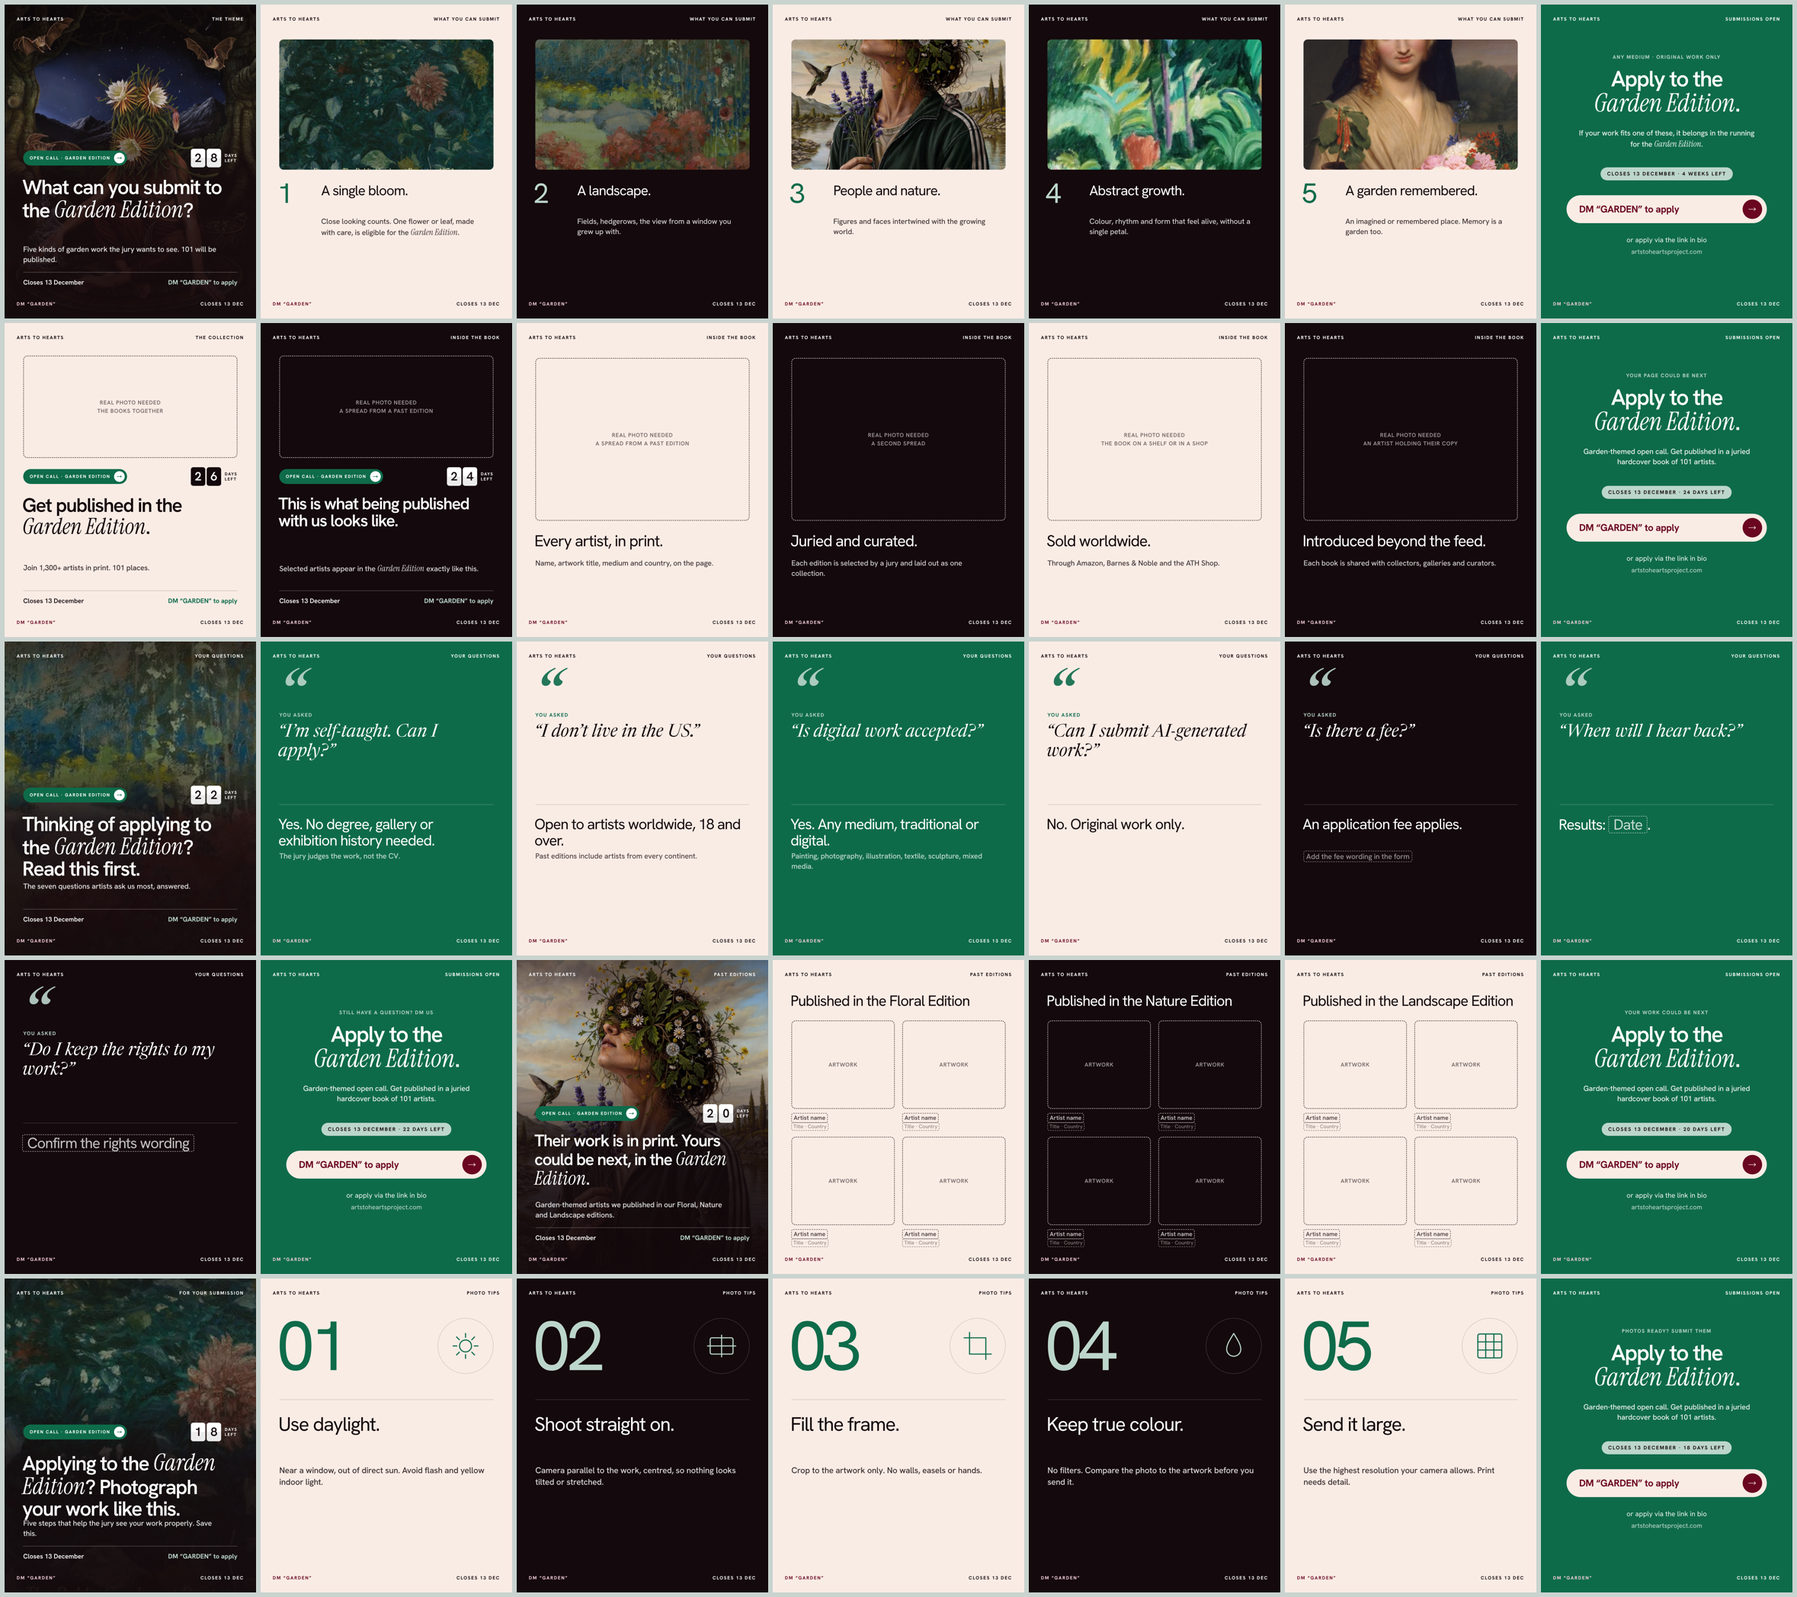
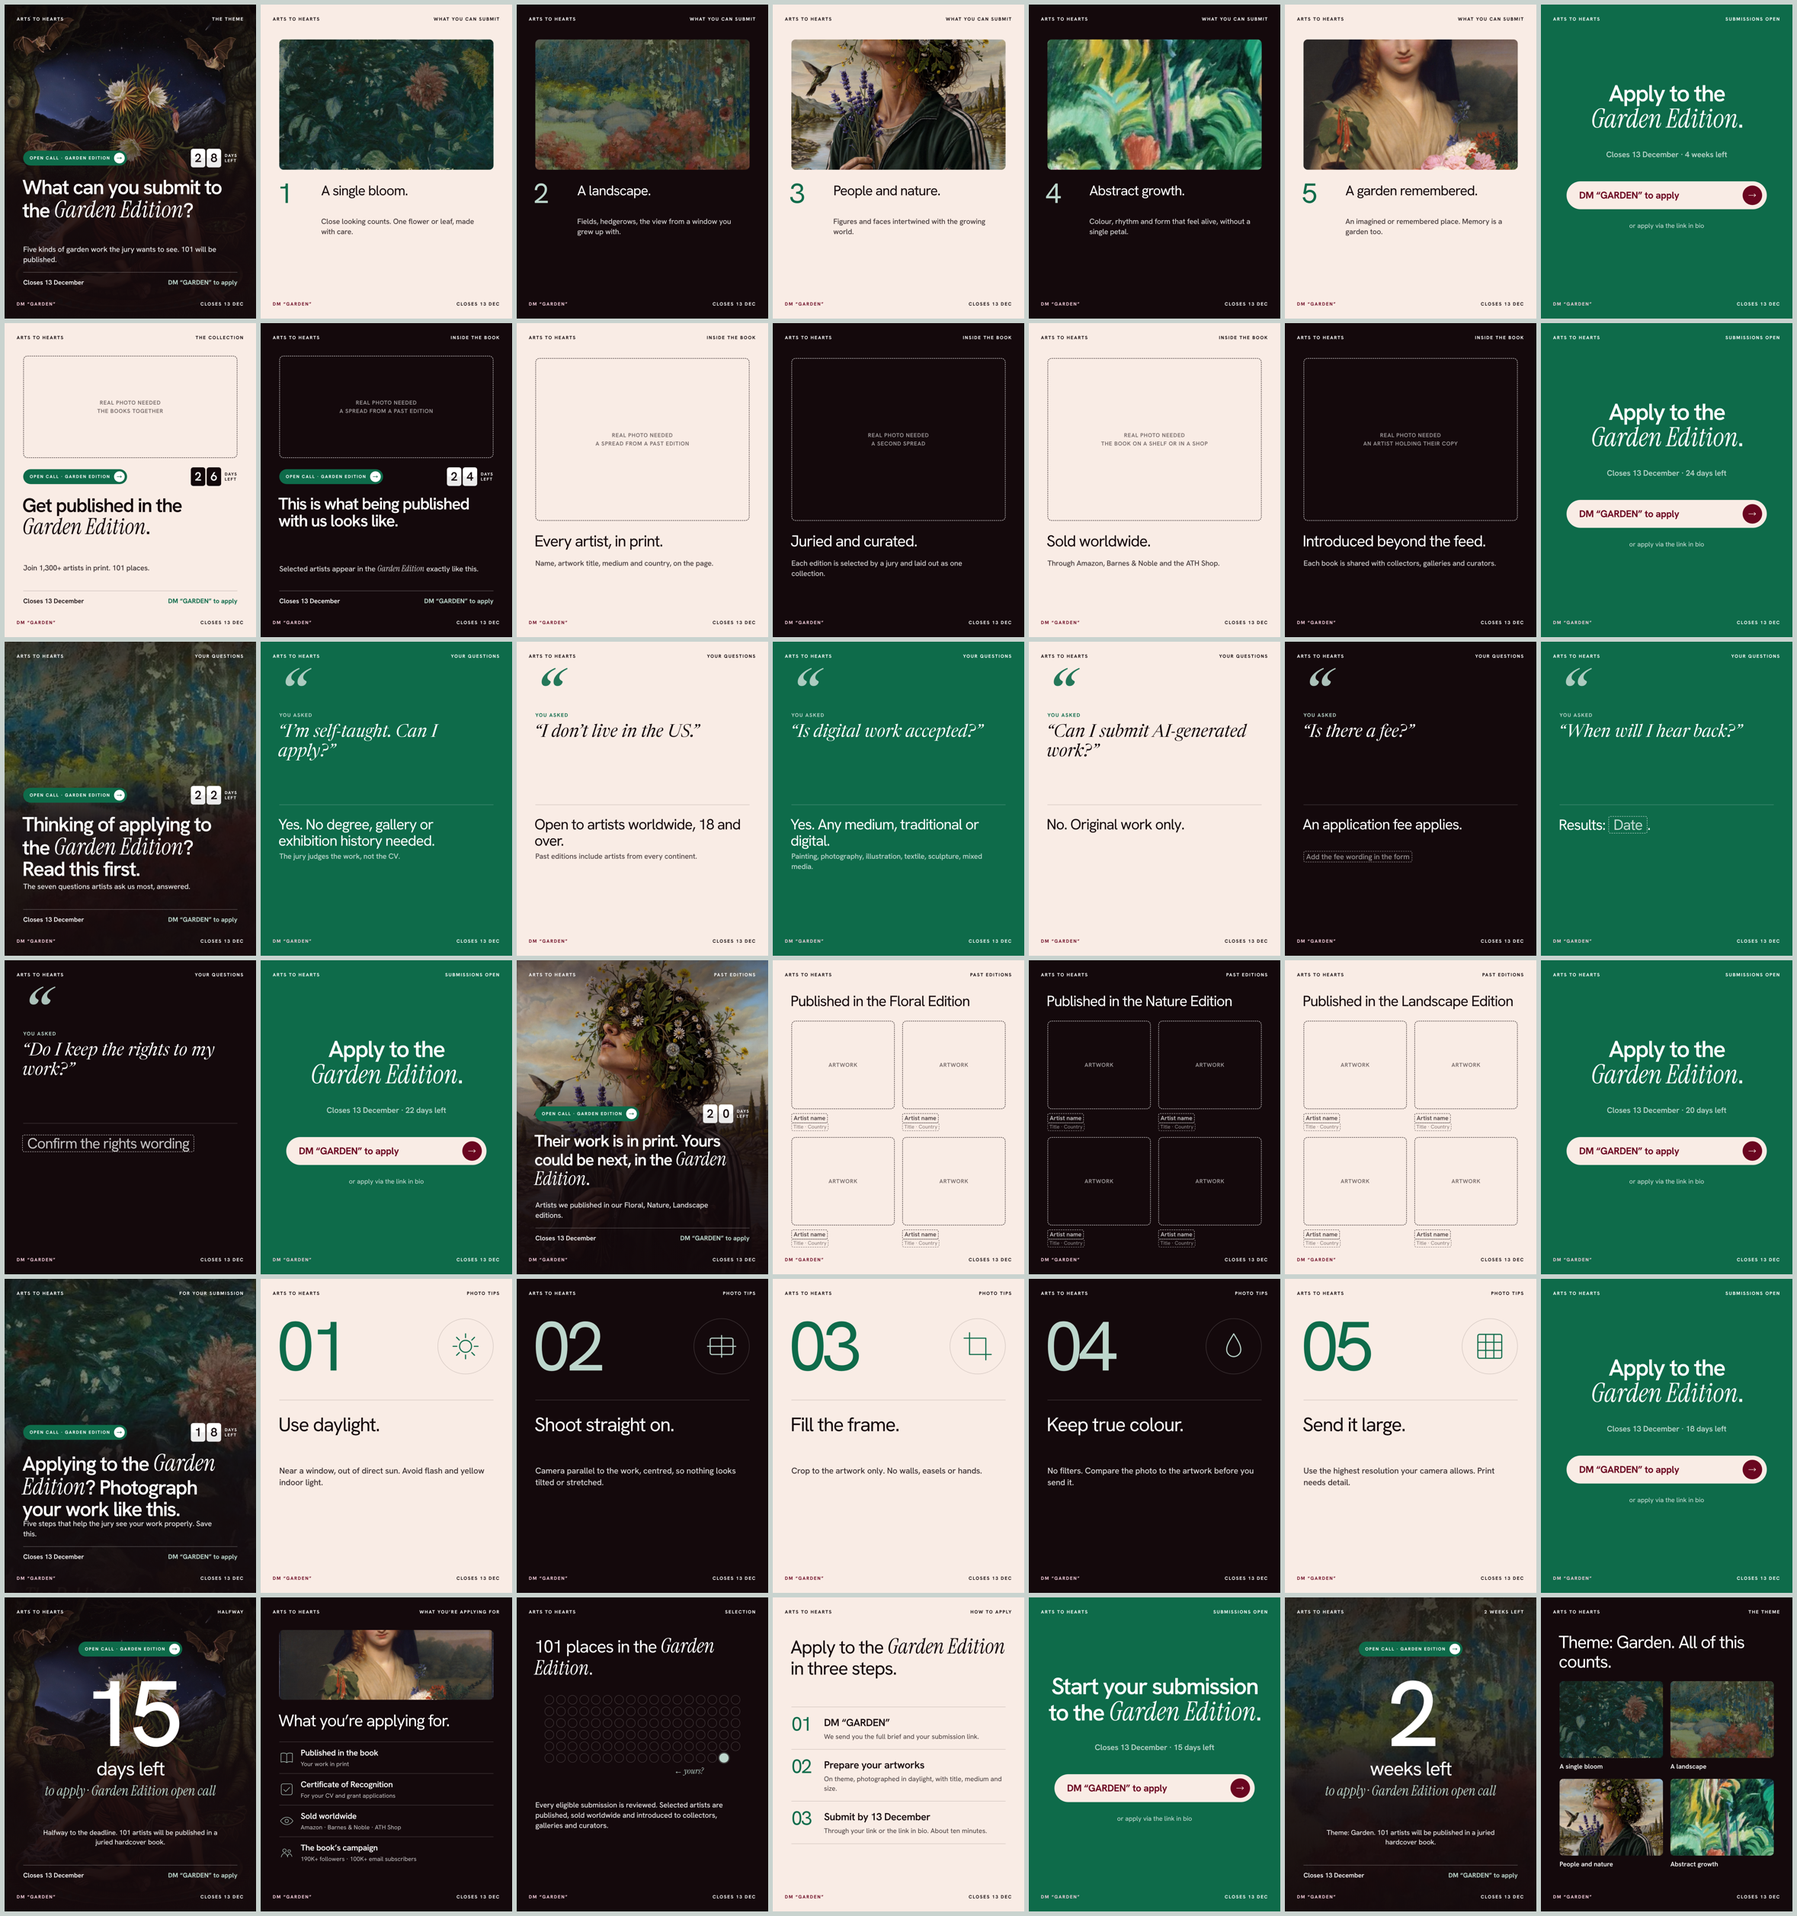
Award covers use full-frame artwork, simpler closing slide, stripped-back final-day urgency posts
Claude-Session: https://claude.ai/code/session_01Bc4gkdxg6i3YRuybqzVB3k

diff --git a/design/campaigns/open-calls/month.js b/design/campaigns/open-calls/month.js
@@ -133,18 +133,16 @@ const T = {
       <p class="a R" style="left:76px;right:80px;top:150px;font-size:76px;color:${g.fg}">${o.head || `${state.theme ? 'Theme: ' + TH() + '. ' : ''}All of this counts.`}</p>
       ${items.map(([src,l],i) => { const x = i%2 ? 556 : 80, y = i<2 ? 360 : 780; return `${imgDiv(src, `left:${x}px;top:${y}px;width:444px;height:330px;border-radius:16px`, 'center 30%')}<p class="a" style="left:${x}px;top:${y+346}px;font-size:28px;font-weight:600;color:${g.fg}">${l}</p>`; }).join('')}`};
   },
-  // every carousel closes on this: the same clear action, with the theme
+  // every carousel closes on this: one headline, the date, one button
   cta(o = {}){
     const g = G[o.ground||'call']();
-    const b = (g.bg === CREAM ? btnCTA(BURG, CREAM, CREAM) : btnCTA(CREAM, BURG, BURG)).replace('{TOP}', 820);
+    const b = (g.bg === CREAM ? btnCTA(BURG, CREAM, CREAM) : btnCTA(CREAM, BURG, BURG)).replace('{TOP}', 760);
+    const long = String(state.name).length > 16;
     return {bg:g.bg, html:`${corners(g.fg, g.dm, o.tr||'Submissions open')}
-      ${o.kicker ? `<p class="a c lab" style="left:0;right:0;top:210px;color:${g.acc}">${o.kicker}</p>` : ''}
-      <p class="a H c" style="left:60px;right:60px;top:${String(state.name).length > 16 ? 240 : 270}px;font-size:${Math.round((o.size||96) * (String(state.name).length > 16 ? .8 : 1))}px;color:${g.fg}">${o.head || `Apply to the<br>${GE()}.`}</p>
-      <p class="a c sub" style="left:140px;right:140px;top:${o.subTop||530}px;color:${g.fg};opacity:.92">${o.sub || `${state.theme ? 'Theme: ' + TH() + '. ' : ''}Get published in a juried hardcover book of ${esc(state.selected)} artists.`}</p>
-      <div class="a" style="left:0;right:0;top:700px;display:flex;justify-content:center"><span class="cn" style="display:inline-flex;align-items:center;height:56px;padding:0 28px;border-radius:999px;background:${g.bg === CREAM ? INK : tint(state.colour)};color:${g.bg === CREAM ? CREAM : INK};font-size:22px">Closes ${dateLong()} · ${leftLabel()}</span></div>
+      <p class="a H c" style="left:70px;right:70px;top:${long ? 300 : 330}px;font-size:${Math.round((o.size||100) * (long ? .8 : 1))}px;color:${g.fg}">${o.head || `Apply to the<br>${GE()}.`}</p>
+      <p class="a c" style="left:0;right:0;top:620px;font-size:34px;font-weight:600;letter-spacing:-.01em;color:${g.acc}">${CURLEFT === 0 ? `Closes tonight, ${dateLong()}` : `Closes ${dateLong()} · ${leftLabel()}`}</p>
       ${b}
-      <p class="a c" style="left:0;right:0;top:990px;font-size:30px;color:${g.fg};opacity:.92">or apply via the link in bio</p>
-      <p class="a c" style="left:0;right:0;top:1042px;font-size:28px;color:${g.fg};opacity:.75">artstoheartsproject.com</p>`};
+      <p class="a c" style="left:0;right:0;top:930px;font-size:28px;color:${g.fg};opacity:.8">or apply via the link in bio</p>`};
   },
   // scarcity: 101 places, one of them could be yours
   stakes(o = {}){
@@ -285,11 +283,12 @@ const awardTag = () => `<span class="cn" style="display:inline-flex;align-items:
 
 const AW = {
   hook(o){ const c = gold();
-    return {bg:AWARD_BG, html:`${frame(c)}${corners(CREAM, PEONY, o.tr)}
-      ${framedArt(o.img || o.art || ART[0], 'left:300px;right:300px;top:140px;height:520px', o.pos || o.artPos)}
-      <div class="a c" style="left:0;right:0;top:720px">${awardTag()}</div>
-      <p class="a c H" style="left:110px;right:110px;top:800px;font-size:${Math.round((o.size||80)*.78)}px;color:${CREAM}">${o.head}</p>
-      ${o.sub ? `<p class="a c sub" style="left:160px;right:160px;top:1035px;font-size:28px;color:${CREAM};opacity:.85">${o.sub}</p>` : ''}
+    return {bg:AWARD_BG, html:`${imgDiv(o.img || o.art || ART[0], 'left:40px;right:40px;top:40px;bottom:40px', o.pos || o.artPos || 'center 30%')}
+      <div class="a" style="left:40px;right:40px;top:40px;bottom:40px;background:linear-gradient(180deg,rgba(28,19,11,.5) 0%,rgba(28,19,11,0) 22%,rgba(28,19,11,0) 40%,rgba(28,19,11,.88) 64%,#1C130B 100%)"></div>
+      ${frame(c)}${corners(CREAM, PEONY, o.tr)}
+      <div class="a" style="left:90px;top:700px">${awardTag()}</div>
+      <p class="a H" style="left:86px;right:90px;top:780px;font-size:${Math.round((o.size||80)*.8)}px;color:${CREAM}">${o.head}</p>
+      ${o.sub ? `<p class="a sub" style="left:90px;right:150px;top:1040px;font-size:28px;color:${CREAM};opacity:.85">${o.sub}</p>` : ''}
       ${strip(CREAM, c)}`};
   },
   count(o){ const c = gold(); const tone = o.tone === 'chilli' ? '#5A0A0A' : AWARD_BG;
@@ -303,6 +302,15 @@ const AW = {
       <p class="a c sub" style="left:160px;right:160px;top:${o.infoTop ? o.infoTop + 40 : 990}px;font-size:28px;color:${CREAM};opacity:.85">${o.info || `${esc(state.selected)} artists will be published in a juried hardcover book.`}</p>
       ${strip(CREAM, c)}`};
   },
+};
+// final day: one message, nothing else
+T.urgent = (o) => { const award = isAward(); const bg = o.chilli ? '#AA0003' : (award ? AWARD_BG : INK); const acc = o.chilli ? CREAM : tint(state.colour);
+  const btn = btnCTA(CREAM, o.chilli ? '#AA0003' : BURG, o.chilli ? '#AA0003' : BURG).replace('{TOP}', 1000);
+  return {bg, html:`${award ? frame(gold()) : ''}${corners(CREAM, PEONY, o.tr || 'Final day')}
+    <p class="a c lab" style="left:0;right:0;top:250px;color:${acc};font-size:26px">${GE()} · open call</p>
+    <p class="a c" style="left:40px;right:40px;top:330px;font-size:${o.size||230}px;font-weight:700;letter-spacing:-.055em;line-height:.88;color:${CREAM}">${o.head}</p>
+    <p class="a c" style="left:120px;right:120px;top:${o.subTop||800}px;font-size:40px;font-weight:500;letter-spacing:-.015em;color:${CREAM}">${o.sub}</p>
+    ${btn}`};
 };
 const T0 = {...T};
 T.hook = o => isAward() ? AW.hook(o) : T0.hook(o);
@@ -709,24 +717,20 @@ Everything you need is in this post. ${kwLine()}
 ${tags}`},
 
  {left:0, title:'Last day', kind:'Carousel · last call', slides:() => [
-   T.count({img:ART[2], pos:'center 40%', big:'Last day', bigSize:190, bigTop:400, unit:'is today', unitTop:620, info:`Submissions close tonight. Tomorrow the jury begins selecting ${sel} artists.`}),
+   T.urgent({head:'Last<br>day.', sub:'Submissions close at midnight tonight.', tr:'Last day'}),
    T.brief(),
-   T.themeRecap({ground:'cream', head:`Your ${TW()} belongs in this book.`}),
-   T.cta({head:'Apply today.', sub:`The ${name} open call closes tonight.`}),
+   T.cta({head:'Apply today.'}),
  ], caption:() => `Last day to apply to the ${N()} open call.
 
-${themeTag()}${SEL()} artists will be selected and published in a juried hardcover book, sold worldwide and shared with collectors, galleries and curators.
-
-Open to individual artists 18+, worldwide, in any medium.
+Submissions close at midnight tonight. ${SEL()} artists will be selected and published in a juried hardcover book.
 ${kwLine()}
 
 ${tags}`},
 
  {left:0, title:'Final hours', kind:'Single · last call', slides:() => [
-   T.count({img:ART[1], tone:'chilli', pos:'center 40%', big:'Final hours', bigSize:170, bigTop:400, unit:'Closes tonight', unitTop:600, line:`${esc(state.name)} open call`, info:`${esc(state.series)}: ${GE()}. ${themeTag()}${sel} artists will be published. Individual artists 18+, worldwide, any medium.`, infoTop:930}),
- ], caption:() => `Final hours. The ${N()} open call closes tonight.
+   T.urgent({chilli:true, head:'Closes<br>tonight.', sub:'Final hours to submit. The jury starts tomorrow.', tr:'Final hours'}),
+ ], caption:() => `Final hours. The ${N()} open call closes at midnight tonight.
 
-${SEL()} artists will be published in a juried hardcover book. ${themeTag()}Open worldwide, any medium.
 ${kwLine()}
 
 ${tags}`},

diff --git a/site/post-studio/month.js b/site/post-studio/month.js
@@ -133,18 +133,16 @@ const T = {
       <p class="a R" style="left:76px;right:80px;top:150px;font-size:76px;color:${g.fg}">${o.head || `${state.theme ? 'Theme: ' + TH() + '. ' : ''}All of this counts.`}</p>
       ${items.map(([src,l],i) => { const x = i%2 ? 556 : 80, y = i<2 ? 360 : 780; return `${imgDiv(src, `left:${x}px;top:${y}px;width:444px;height:330px;border-radius:16px`, 'center 30%')}<p class="a" style="left:${x}px;top:${y+346}px;font-size:28px;font-weight:600;color:${g.fg}">${l}</p>`; }).join('')}`};
   },
-  // every carousel closes on this: the same clear action, with the theme
+  // every carousel closes on this: one headline, the date, one button
   cta(o = {}){
     const g = G[o.ground||'call']();
-    const b = (g.bg === CREAM ? btnCTA(BURG, CREAM, CREAM) : btnCTA(CREAM, BURG, BURG)).replace('{TOP}', 820);
+    const b = (g.bg === CREAM ? btnCTA(BURG, CREAM, CREAM) : btnCTA(CREAM, BURG, BURG)).replace('{TOP}', 760);
+    const long = String(state.name).length > 16;
     return {bg:g.bg, html:`${corners(g.fg, g.dm, o.tr||'Submissions open')}
-      ${o.kicker ? `<p class="a c lab" style="left:0;right:0;top:210px;color:${g.acc}">${o.kicker}</p>` : ''}
-      <p class="a H c" style="left:60px;right:60px;top:${String(state.name).length > 16 ? 240 : 270}px;font-size:${Math.round((o.size||96) * (String(state.name).length > 16 ? .8 : 1))}px;color:${g.fg}">${o.head || `Apply to the<br>${GE()}.`}</p>
-      <p class="a c sub" style="left:140px;right:140px;top:${o.subTop||530}px;color:${g.fg};opacity:.92">${o.sub || `${state.theme ? 'Theme: ' + TH() + '. ' : ''}Get published in a juried hardcover book of ${esc(state.selected)} artists.`}</p>
-      <div class="a" style="left:0;right:0;top:700px;display:flex;justify-content:center"><span class="cn" style="display:inline-flex;align-items:center;height:56px;padding:0 28px;border-radius:999px;background:${g.bg === CREAM ? INK : tint(state.colour)};color:${g.bg === CREAM ? CREAM : INK};font-size:22px">Closes ${dateLong()} · ${leftLabel()}</span></div>
+      <p class="a H c" style="left:70px;right:70px;top:${long ? 300 : 330}px;font-size:${Math.round((o.size||100) * (long ? .8 : 1))}px;color:${g.fg}">${o.head || `Apply to the<br>${GE()}.`}</p>
+      <p class="a c" style="left:0;right:0;top:620px;font-size:34px;font-weight:600;letter-spacing:-.01em;color:${g.acc}">${CURLEFT === 0 ? `Closes tonight, ${dateLong()}` : `Closes ${dateLong()} · ${leftLabel()}`}</p>
       ${b}
-      <p class="a c" style="left:0;right:0;top:990px;font-size:30px;color:${g.fg};opacity:.92">or apply via the link in bio</p>
-      <p class="a c" style="left:0;right:0;top:1042px;font-size:28px;color:${g.fg};opacity:.75">artstoheartsproject.com</p>`};
+      <p class="a c" style="left:0;right:0;top:930px;font-size:28px;color:${g.fg};opacity:.8">or apply via the link in bio</p>`};
   },
   // scarcity: 101 places, one of them could be yours
   stakes(o = {}){
@@ -285,11 +283,12 @@ const awardTag = () => `<span class="cn" style="display:inline-flex;align-items:
 
 const AW = {
   hook(o){ const c = gold();
-    return {bg:AWARD_BG, html:`${frame(c)}${corners(CREAM, PEONY, o.tr)}
-      ${framedArt(o.img || o.art || ART[0], 'left:300px;right:300px;top:140px;height:520px', o.pos || o.artPos)}
-      <div class="a c" style="left:0;right:0;top:720px">${awardTag()}</div>
-      <p class="a c H" style="left:110px;right:110px;top:800px;font-size:${Math.round((o.size||80)*.78)}px;color:${CREAM}">${o.head}</p>
-      ${o.sub ? `<p class="a c sub" style="left:160px;right:160px;top:1035px;font-size:28px;color:${CREAM};opacity:.85">${o.sub}</p>` : ''}
+    return {bg:AWARD_BG, html:`${imgDiv(o.img || o.art || ART[0], 'left:40px;right:40px;top:40px;bottom:40px', o.pos || o.artPos || 'center 30%')}
+      <div class="a" style="left:40px;right:40px;top:40px;bottom:40px;background:linear-gradient(180deg,rgba(28,19,11,.5) 0%,rgba(28,19,11,0) 22%,rgba(28,19,11,0) 40%,rgba(28,19,11,.88) 64%,#1C130B 100%)"></div>
+      ${frame(c)}${corners(CREAM, PEONY, o.tr)}
+      <div class="a" style="left:90px;top:700px">${awardTag()}</div>
+      <p class="a H" style="left:86px;right:90px;top:780px;font-size:${Math.round((o.size||80)*.8)}px;color:${CREAM}">${o.head}</p>
+      ${o.sub ? `<p class="a sub" style="left:90px;right:150px;top:1040px;font-size:28px;color:${CREAM};opacity:.85">${o.sub}</p>` : ''}
       ${strip(CREAM, c)}`};
   },
   count(o){ const c = gold(); const tone = o.tone === 'chilli' ? '#5A0A0A' : AWARD_BG;
@@ -303,6 +302,15 @@ const AW = {
       <p class="a c sub" style="left:160px;right:160px;top:${o.infoTop ? o.infoTop + 40 : 990}px;font-size:28px;color:${CREAM};opacity:.85">${o.info || `${esc(state.selected)} artists will be published in a juried hardcover book.`}</p>
       ${strip(CREAM, c)}`};
   },
+};
+// final day: one message, nothing else
+T.urgent = (o) => { const award = isAward(); const bg = o.chilli ? '#AA0003' : (award ? AWARD_BG : INK); const acc = o.chilli ? CREAM : tint(state.colour);
+  const btn = btnCTA(CREAM, o.chilli ? '#AA0003' : BURG, o.chilli ? '#AA0003' : BURG).replace('{TOP}', 1000);
+  return {bg, html:`${award ? frame(gold()) : ''}${corners(CREAM, PEONY, o.tr || 'Final day')}
+    <p class="a c lab" style="left:0;right:0;top:250px;color:${acc};font-size:26px">${GE()} · open call</p>
+    <p class="a c" style="left:40px;right:40px;top:330px;font-size:${o.size||230}px;font-weight:700;letter-spacing:-.055em;line-height:.88;color:${CREAM}">${o.head}</p>
+    <p class="a c" style="left:120px;right:120px;top:${o.subTop||800}px;font-size:40px;font-weight:500;letter-spacing:-.015em;color:${CREAM}">${o.sub}</p>
+    ${btn}`};
 };
 const T0 = {...T};
 T.hook = o => isAward() ? AW.hook(o) : T0.hook(o);
@@ -709,24 +717,20 @@ Everything you need is in this post. ${kwLine()}
 ${tags}`},
 
  {left:0, title:'Last day', kind:'Carousel · last call', slides:() => [
-   T.count({img:ART[2], pos:'center 40%', big:'Last day', bigSize:190, bigTop:400, unit:'is today', unitTop:620, info:`Submissions close tonight. Tomorrow the jury begins selecting ${sel} artists.`}),
+   T.urgent({head:'Last<br>day.', sub:'Submissions close at midnight tonight.', tr:'Last day'}),
    T.brief(),
-   T.themeRecap({ground:'cream', head:`Your ${TW()} belongs in this book.`}),
-   T.cta({head:'Apply today.', sub:`The ${name} open call closes tonight.`}),
+   T.cta({head:'Apply today.'}),
  ], caption:() => `Last day to apply to the ${N()} open call.
 
-${themeTag()}${SEL()} artists will be selected and published in a juried hardcover book, sold worldwide and shared with collectors, galleries and curators.
-
-Open to individual artists 18+, worldwide, in any medium.
+Submissions close at midnight tonight. ${SEL()} artists will be selected and published in a juried hardcover book.
 ${kwLine()}
 
 ${tags}`},
 
  {left:0, title:'Final hours', kind:'Single · last call', slides:() => [
-   T.count({img:ART[1], tone:'chilli', pos:'center 40%', big:'Final hours', bigSize:170, bigTop:400, unit:'Closes tonight', unitTop:600, line:`${esc(state.name)} open call`, info:`${esc(state.series)}: ${GE()}. ${themeTag()}${sel} artists will be published. Individual artists 18+, worldwide, any medium.`, infoTop:930}),
- ], caption:() => `Final hours. The ${N()} open call closes tonight.
+   T.urgent({chilli:true, head:'Closes<br>tonight.', sub:'Final hours to submit. The jury starts tomorrow.', tr:'Final hours'}),
+ ], caption:() => `Final hours. The ${N()} open call closes at midnight tonight.
 
-${SEL()} artists will be published in a juried hardcover book. ${themeTag()}Open worldwide, any medium.
 ${kwLine()}
 
 ${tags}`},
